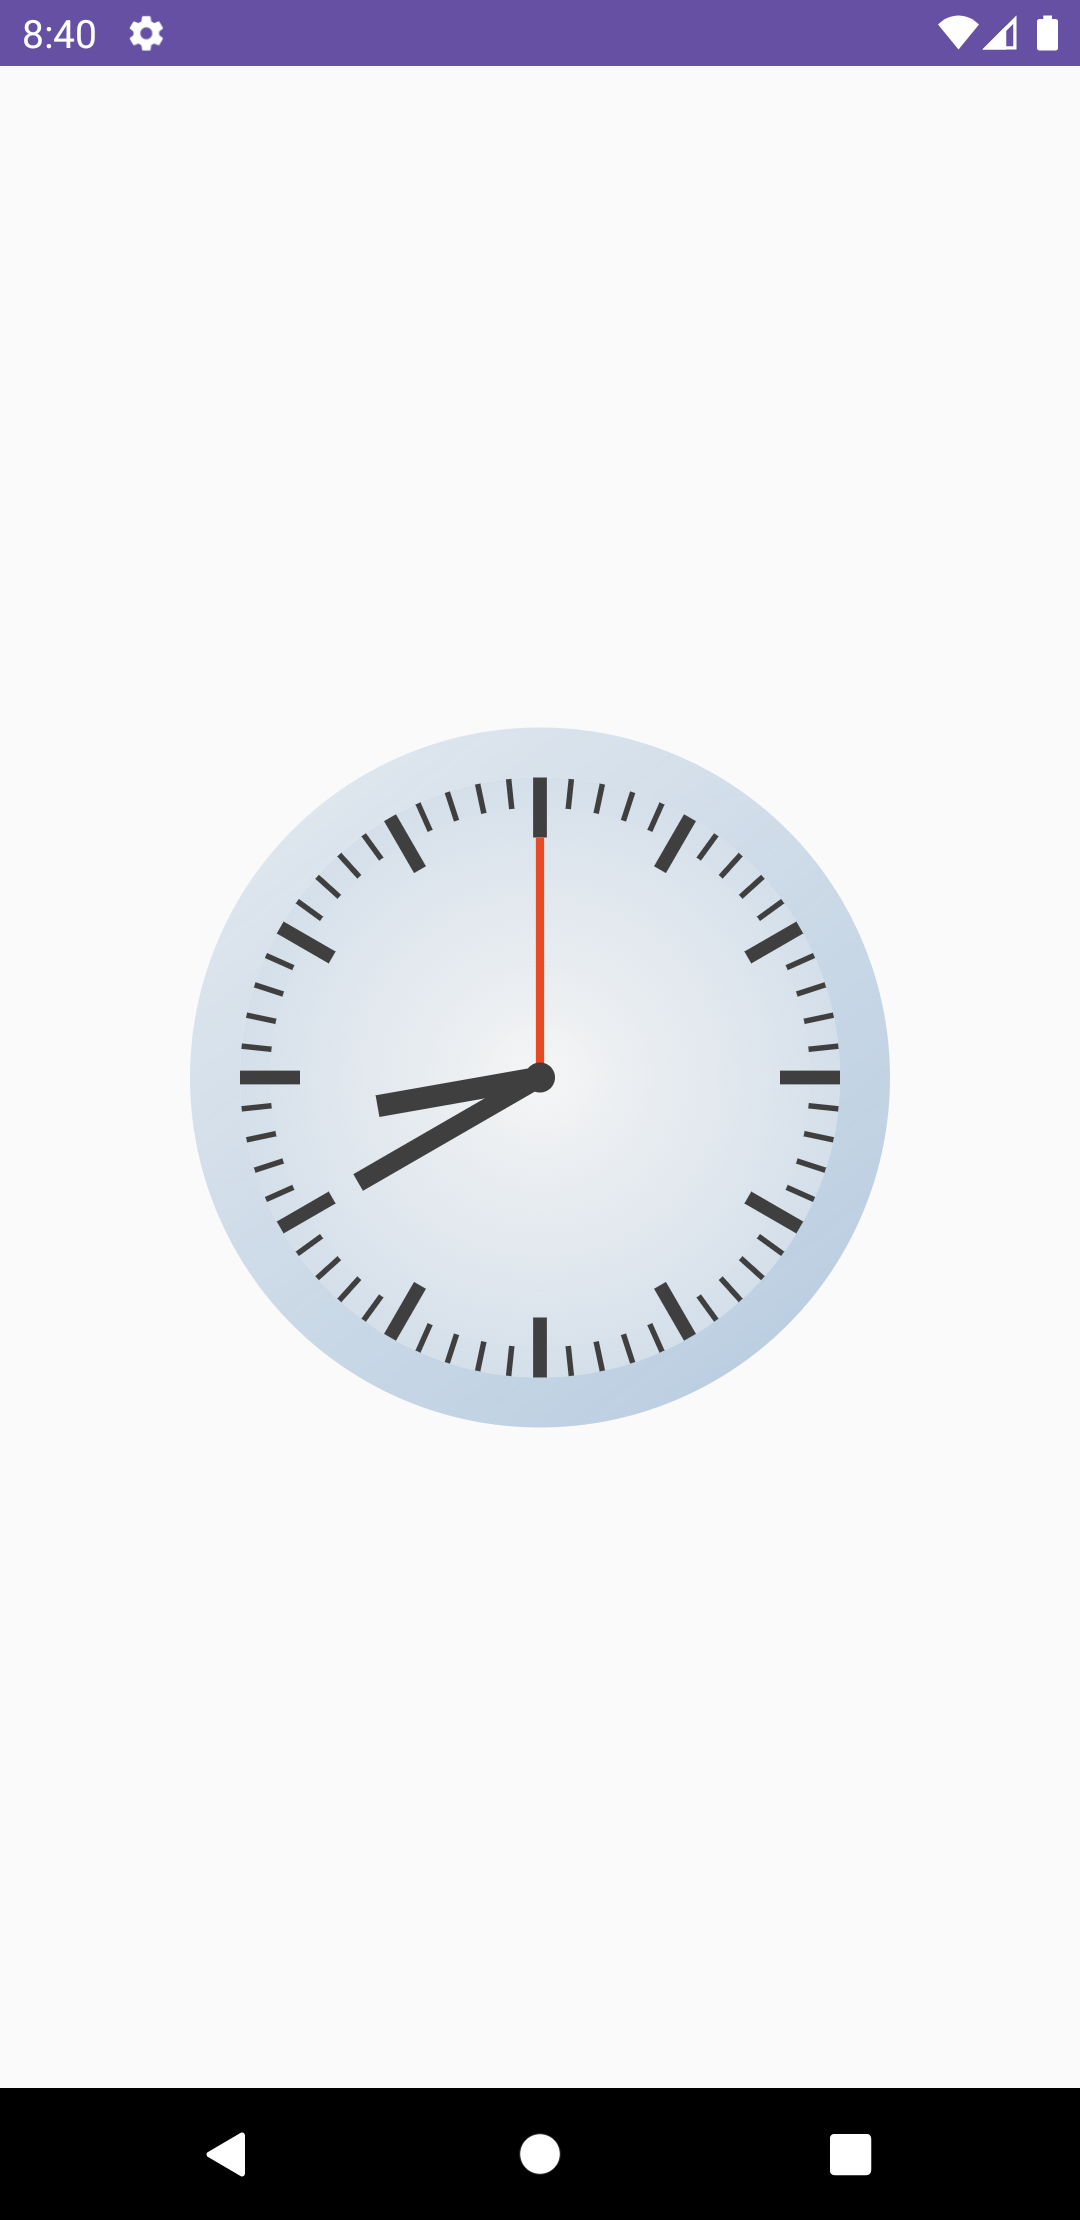
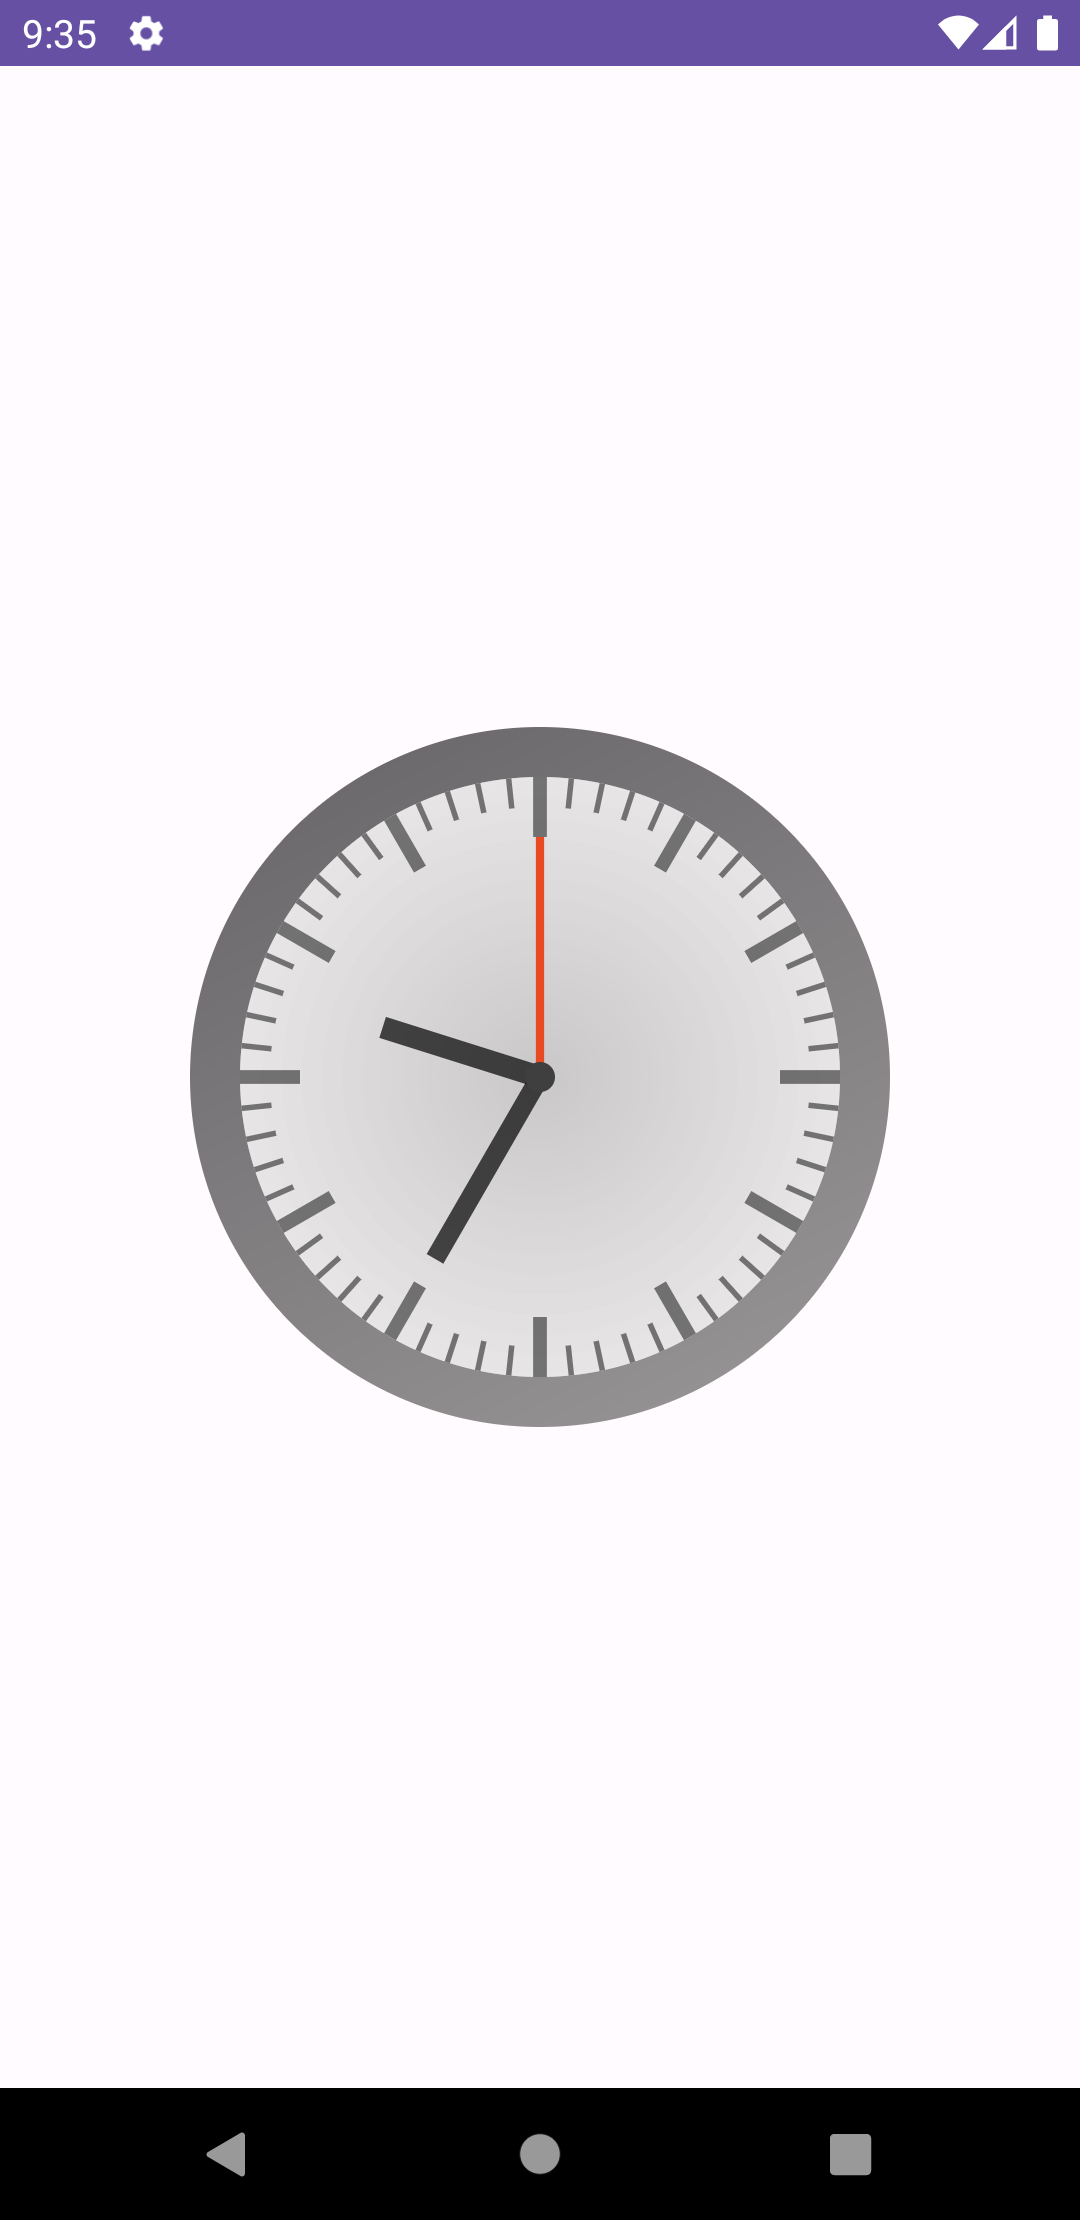
Feat: color customization

diff --git a/jetclo/src/main/java/me/hib4/jetclo/JetClo.kt b/jetclo/src/main/java/me/hib4/jetclo/JetClo.kt
@@ -12,12 +12,13 @@ import androidx.compose.runtime.setValue
 import androidx.compose.ui.Modifier
 import androidx.compose.ui.geometry.Offset
 import androidx.compose.ui.graphics.Brush
+import androidx.compose.ui.graphics.Color
 import androidx.compose.ui.graphics.drawscope.Stroke
 import androidx.compose.ui.graphics.drawscope.rotate
 import androidx.compose.ui.unit.dp
 import me.hib4.jetclo.ui.theme.ForceBlue
 import me.hib4.jetclo.ui.theme.Grey
-import me.hib4.jetclo.ui.theme.RedOrange
+import me.hib4.jetclo.ui.theme.Red
 import me.hib4.jetclo.ui.theme.White
 import java.util.Calendar
 import java.util.Date
@@ -30,6 +31,18 @@ fun JetClo(
     modifier: Modifier = Modifier,
     circleRadius: Float = 300f,
     outerCircleThickness: Float = 50f,
+    centerCircleColor: List<Color> = listOf(
+        White.copy(alpha = 0.75f),
+        ForceBlue.copy(alpha = 0.25f)
+    ),
+    outerCircleColor: List<Color> = listOf(
+        White.copy(alpha = 0.45f),
+        ForceBlue.copy(alpha = 0.35f)
+    ),
+    markerColor: Color = Grey,
+    secondsLineColor: Color = Red,
+    minutesLineColor: Color = Grey,
+    hoursLineColor: Color = Grey,
     time: () -> Long
 ) {
     var circleCenter by remember {
@@ -56,23 +69,17 @@ fun JetClo(
             drawCircle(
                 center = circleCenter,
                 brush = Brush.linearGradient(
-                    listOf(
-                        White.copy(alpha = 0.45f),
-                        ForceBlue.copy(alpha = 0.35f)
-                    )
+                    outerCircleColor
                 ),
                 radius = circleRadius + outerCircleThickness / 2f,
-                style = Stroke(width = outerCircleThickness),
+                style = Stroke(width = outerCircleThickness)
             )
             drawCircle(
                 center = circleCenter,
                 brush = Brush.radialGradient(
-                    listOf(
-                        White.copy(alpha = 0.75f),
-                        ForceBlue.copy(alpha = 0.25f)
-                    )
+                    centerCircleColor
                 ),
-                radius = circleRadius,
+                radius = circleRadius
             )
 
             val littleLineLength = circleRadius * 0.1f
@@ -97,7 +104,7 @@ fun JetClo(
                     pivot = start
                 ) {
                     drawLine(
-                        color = Grey,
+                        color = markerColor,
                         start = start,
                         end = end,
                         strokeWidth = lineThickness.dp.toPx()
@@ -105,7 +112,7 @@ fun JetClo(
                 }
             }
 
-            val clockTimes = listOf(ClockTimes.Minutes, ClockTimes.Hours, ClockTimes.Seconds)
+            val clockTimes = listOf(ClockTimes.Hours, ClockTimes.Minutes, ClockTimes.Seconds)
 
             clockTimes.forEach { clockTime ->
                 val angleInDegrees = when (clockTime) {
@@ -160,7 +167,11 @@ fun JetClo(
                     pivot = start
                 ) {
                     drawLine(
-                        color = if (clockTime == ClockTimes.Seconds) RedOrange else Grey,
+                        color = when (clockTime) {
+                            ClockTimes.Seconds -> secondsLineColor
+                            ClockTimes.Minutes -> minutesLineColor
+                            ClockTimes.Hours -> hoursLineColor
+                        },
                         start = start,
                         end = end,
                         strokeWidth = lineThickness.dp.toPx()

diff --git a/app/src/main/java/me/hib4/jetclo/Example.kt b/app/src/main/java/me/hib4/jetclo/Example.kt
@@ -8,8 +8,10 @@ import androidx.compose.runtime.mutableStateOf
 import androidx.compose.runtime.remember
 import androidx.compose.runtime.setValue
 import androidx.compose.ui.Modifier
+import androidx.compose.ui.graphics.Color
 import androidx.compose.ui.unit.dp
 import kotlinx.coroutines.delay
+import me.hib4.jetclo.ui.theme.Red
 
 @Composable
 fun JetCloExample() {
@@ -28,8 +30,19 @@ fun JetCloExample() {
         modifier = Modifier.size(500.dp),
         circleRadius = 300f,
         outerCircleThickness = 50f,
-        time = {
-            currentTime
-        }
-    )
+        outerCircleColor = listOf(
+            Color.Black.copy(alpha = 0.75f),
+            Color.Black.copy(alpha = 0.25f)
+        ),
+        centerCircleColor = listOf(
+            Color.Gray.copy(alpha = 0.45f),
+            Color.White.copy(alpha = 0.35f)
+        ),
+        markerColor = Color.Black.copy(alpha = 0.5f),
+        secondsLineColor = Red,
+        minutesLineColor = Color.Black.copy(alpha = 0.7f),
+        hoursLineColor = Color.Black.copy(alpha = 0.7f),
+    ) {
+        currentTime
+    }
 }

diff --git a/app/src/main/java/me/hib4/jetclo/MainActivity.kt b/app/src/main/java/me/hib4/jetclo/MainActivity.kt
@@ -3,11 +3,9 @@ package me.hib4.jetclo
 import android.os.Bundle
 import androidx.activity.ComponentActivity
 import androidx.activity.compose.setContent
-import androidx.compose.foundation.layout.Box
 import androidx.compose.foundation.layout.fillMaxSize
 import androidx.compose.material3.MaterialTheme
 import androidx.compose.material3.Surface
-import androidx.compose.ui.Alignment
 import androidx.compose.ui.Modifier
 import me.hib4.jetclo.ui.theme.JetcloTheme
 
@@ -20,11 +18,7 @@ class MainActivity : ComponentActivity() {
                     modifier = Modifier.fillMaxSize(),
                     color = MaterialTheme.colorScheme.background
                 ) {
-                    Box(
-                        contentAlignment = Alignment.Center
-                    ) {
-                        JetCloExample()
-                    }
+                    JetCloExample()
                 }
             }
         }

diff --git a/app/src/main/java/me/hib4/jetclo/ui/theme/Color.kt b/app/src/main/java/me/hib4/jetclo/ui/theme/Color.kt
@@ -12,7 +12,7 @@ val Pink40 = Color(0xFF7D5260)
 
 val White = Color(0xFFF3F3F3)
 val Grey = Color(0xFF3F3F3F)
-val RedOrange = Color(0xFFE84A23)
+val Red = Color(0xFFE84A23)
 
 val AzureBlue = Color(0XFF0080FF)
 val BrightNavyBlue = Color(0XFF0066CC)

diff --git a/jetclo/src/main/java/me/hib4/jetclo/ui/theme/Color.kt b/jetclo/src/main/java/me/hib4/jetclo/ui/theme/Color.kt
@@ -13,6 +13,6 @@ val Pink40 = Color(0xFF7D5260)
 
 val White = Color(0xFFF3F3F3)
 val Grey = Color(0xFF3F3F3F)
-val RedOrange = Color(0xFFe84a23)
+val Red = Color(0xFFe84a23)
 val ForceBlue = Color(0XFF004D99)
 
